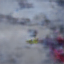
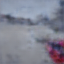
update

diff --git a/main_var.py b/main_var.py
@@ -304,38 +304,43 @@ def reconstruct(args):
 		x = x - 0.005 * grad_x	
 		diff = torch.sum((x - x_)**2)
 	
-	img = x.squeeze(0).detach().cpu().numpy()
-	img = (np.clip(img, 0., 1.) * 255).astype(np.uint8).transpose(1, 2, 0)
-	matplotlib.image.imsave('var.png', img)
-
 	x_recon, _, _ = model_vae(x)	
-	img_recon = x_recon.squeeze(0).detach().cpu().numpy()
-	print(img_recon.shape)
-	img_recon = (np.clip(img_recon, 0., 1.) * 255).astype(np.uint8).transpose(1, 2, 0)
-	matplotlib.image.imsave('var_recon.png', img_recon)
+	store_img(x.detach(), x_recon.detach(), os.path.join(exp_dir, 'var'), name = 'syn')
 	
 	# Prepare dataset
 	meta_data = load_metadata(exp_dir)
 	dataset = meta_data['dataset']
 	max_var = -float('inf')
-	max_data = None
+	max_data_var = None
+	max_loss = -float('inf')
+	max_data_loss = None 
 	test_loader = get_dataloaders(dataset, batch_size=1, logger=logger)
+	loss_f = get_loss_f()
 	for i, (data, _) in enumerate(test_loader):
-		
-		var_ = model_var(data)
-		if var_ > max_var:
-			max_var = var_
-			max_data = data
-	img = data.squeeze(0).cpu().numpy()
-	print(img.shape)
-	img = (np.clip(img, 0., 1.) * 255).astype(np.uint8).transpose(1, 2, 0)
-	matplotlib.image.imsave('var_.png', img)
+		data_var = model_var(data)
+		data_recon, _, _ = model_vae(data)
+		data_loss = loss_f(data, data_recon, data_var, is_train = False, storer = None)
 
-	x_recon, _, _ = model_vae(max_data)	
-	img_recon = x_recon.squeeze(0).detach().cpu().numpy()
+		if data_var > max_var:
+			max_var = data_var
+			max_data_var = data
+			max_data_recon_var = data_recon
+		if data_loss > max_loss:
+			max_loss = data_loss
+			max_data_loss = data
+			max_data_recon_loss = data_recon
+
+	store_img(max_data_var, max_data_recon_var, os.path.join(exp_dir, 'var'), name = 'var')
+	store_img(max_data_loss, max_data_recon_loss, os.path.join(exp_dir, 'var'), name = 'loss') 	
+
+def store_img(data, data_recon, model_var_dir, name = 'var'):
+	img = data.squeeze(0).cpu().numpy()
+	img = (np.clip(img, 0., 1.) * 255).astype(np.uint8).transpose(1, 2, 0)
+	matplotlib.image.imsave(os.path.join(model_var_dir, name + '.png'), img)
+	
+	img_recon = data_recon.squeeze(0).detach().cpu().numpy()
 	img_recon = (np.clip(img_recon, 0., 1.) * 255).astype(np.uint8).transpose(1, 2, 0)
-	matplotlib.image.imsave('var_recon_.png', img_recon)
-		
+	matplotlib.image.imsave(os.path.join(model_var_dir, name + '_recon.png'), img_recon)
 
 if __name__ == '__main__':
 	args = parse_arguments(sys.argv[1:])
